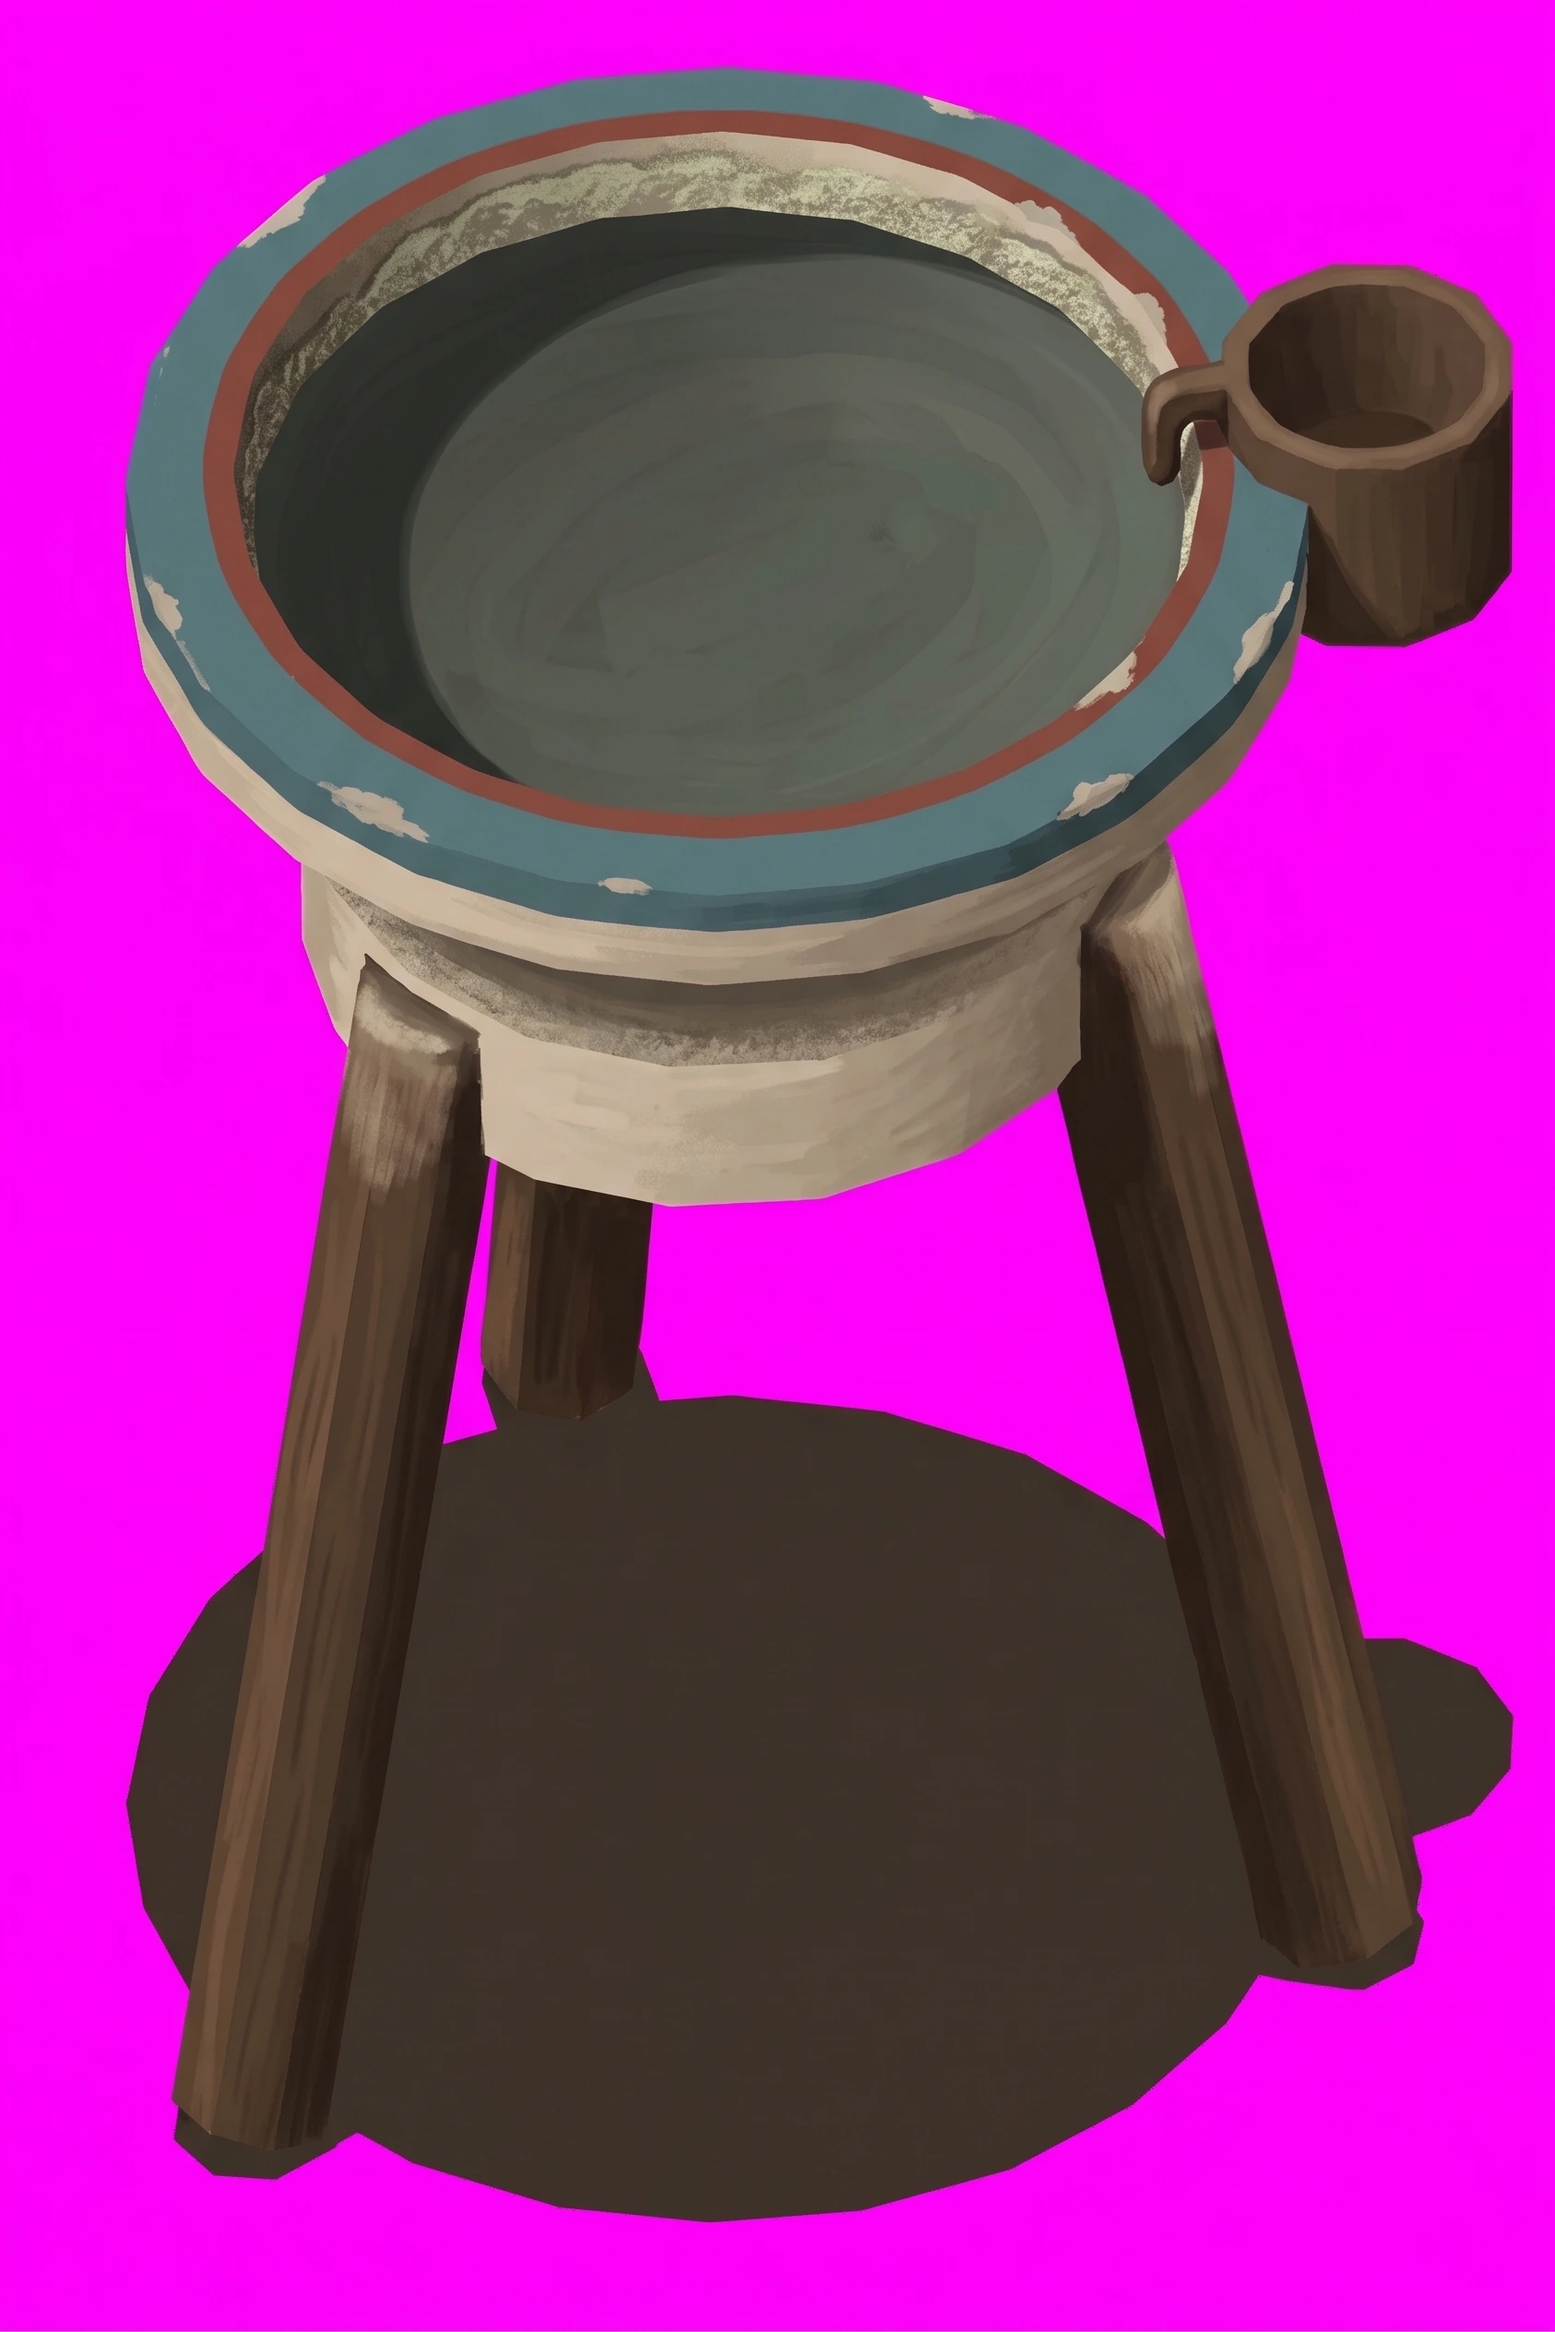
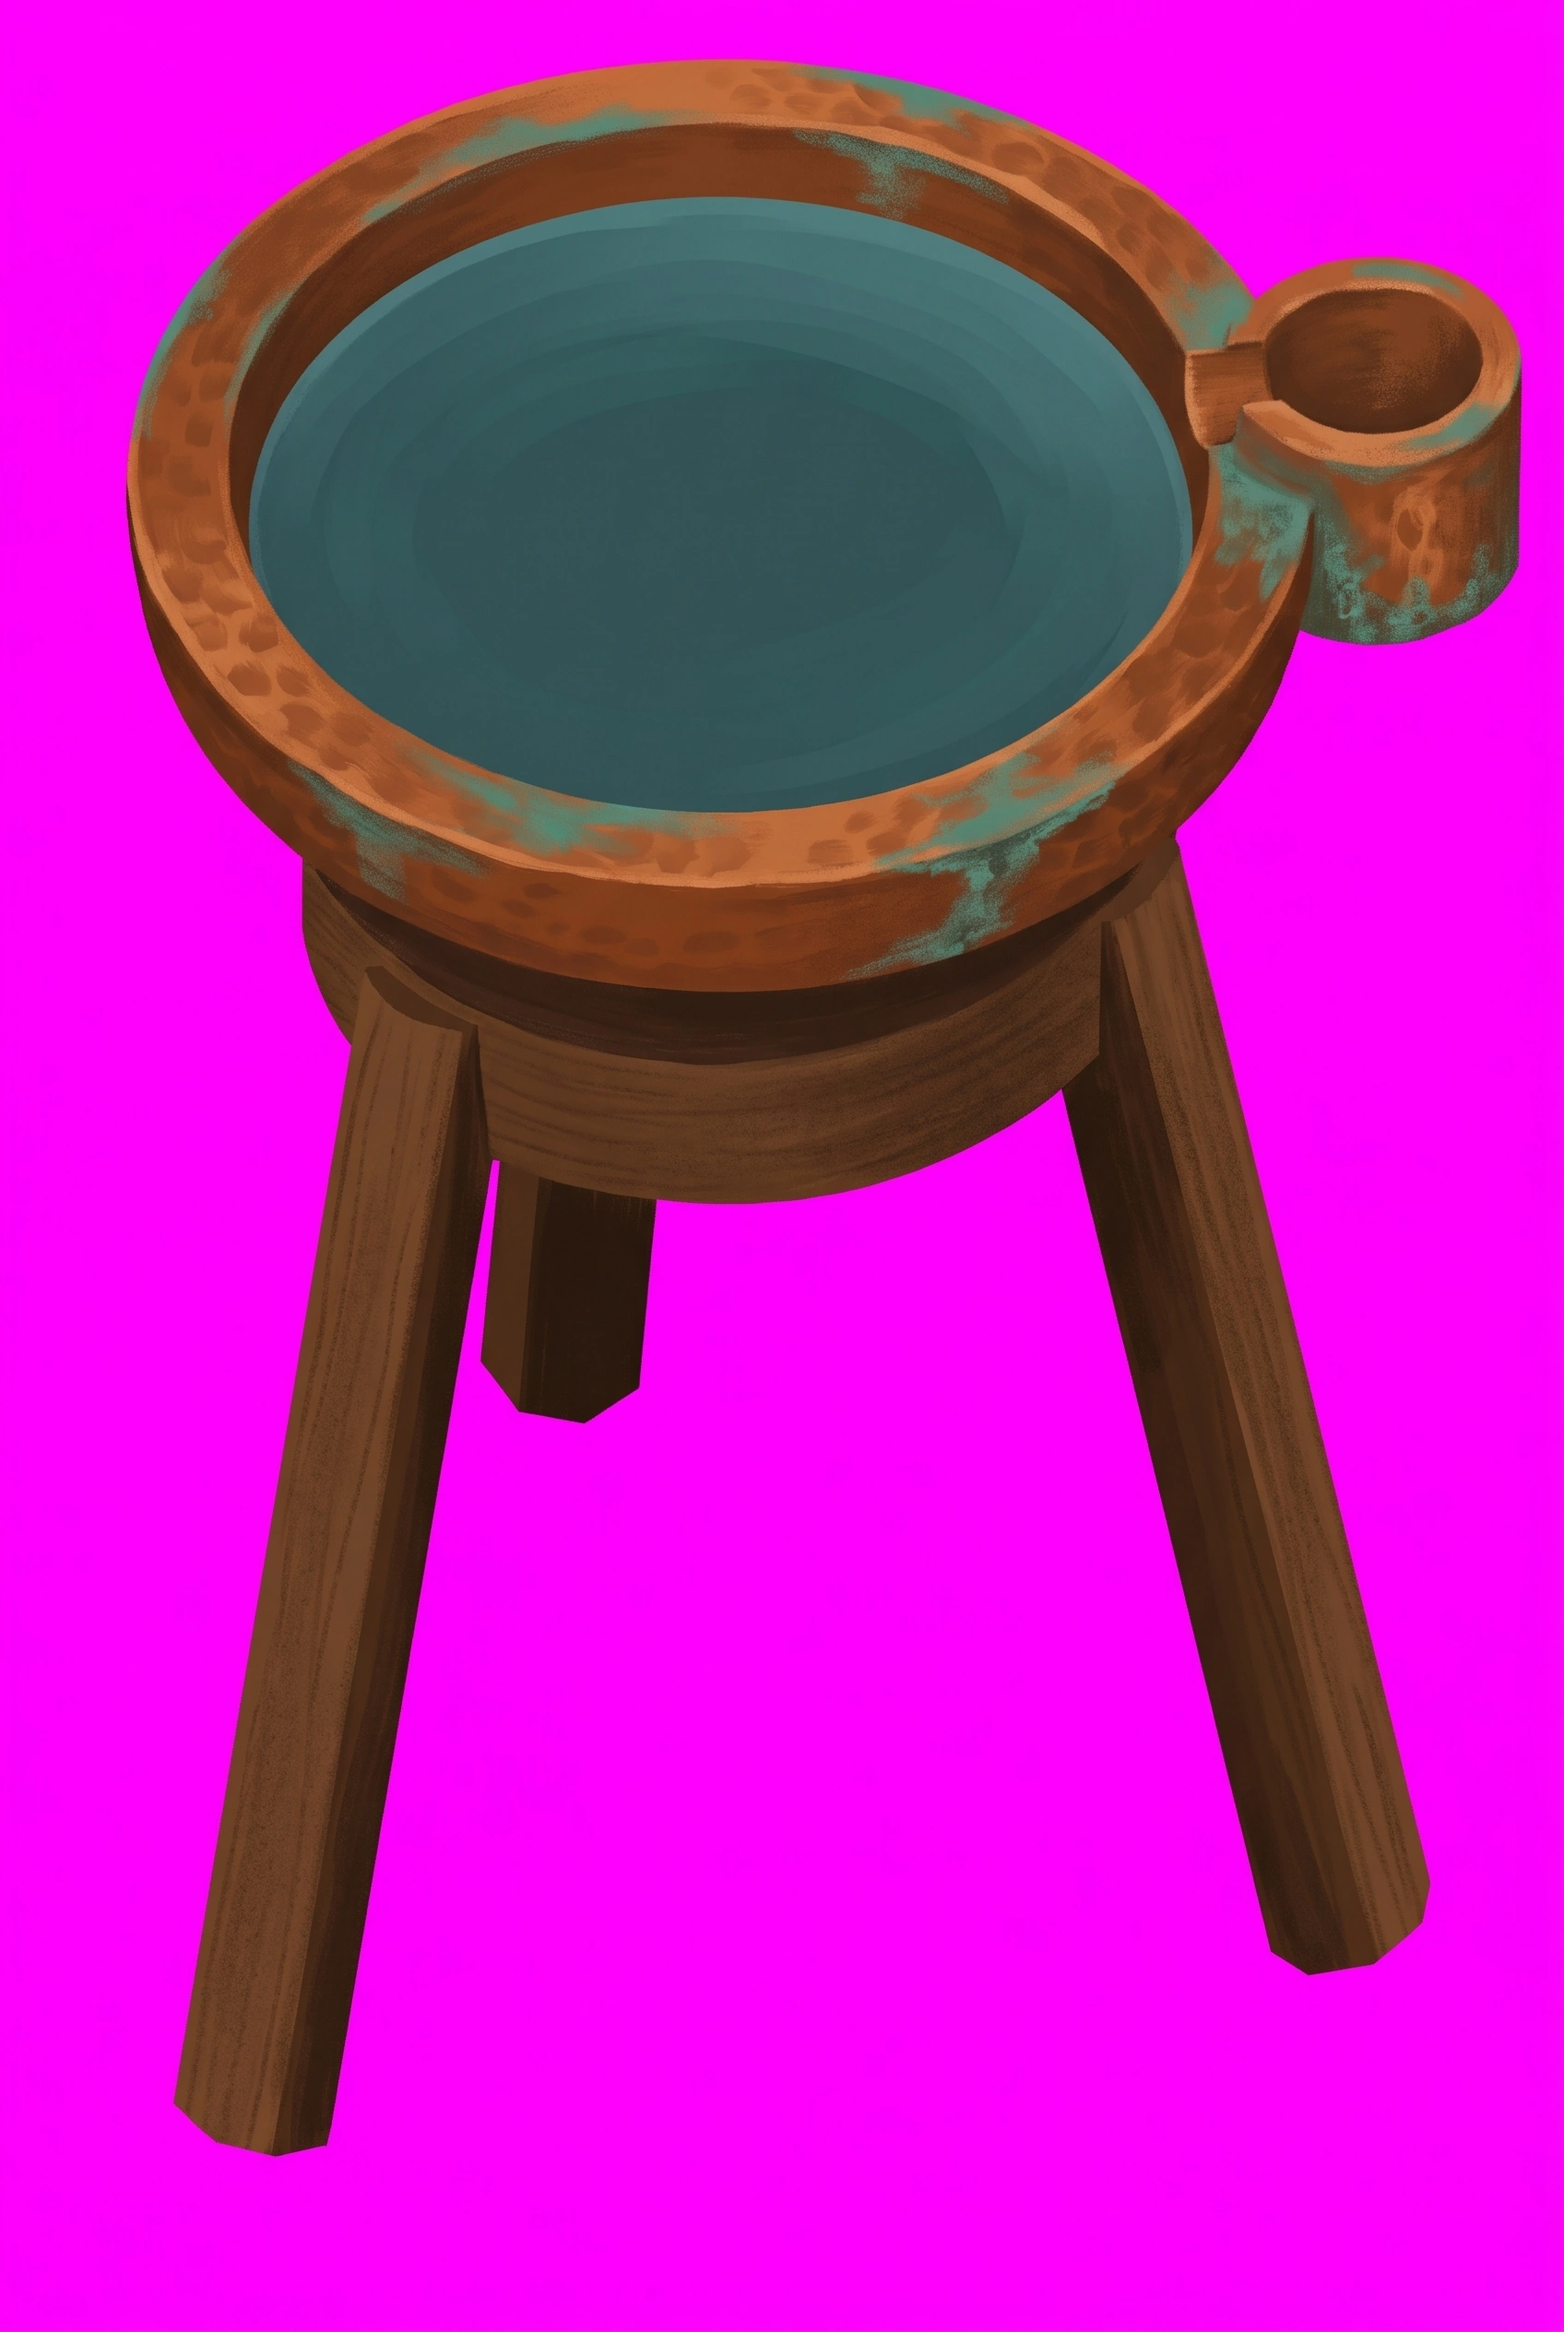
art: junior copper basin
Claude-Session: https://claude.ai/code/session_01F6g2diRzQCzQwEf9zsEEGH

diff --git a/docs/instructions/repaint-queue.md b/docs/instructions/repaint-queue.md
@@ -483,7 +483,7 @@ Even lighting left to right, no hotspot, no vignette.
 
 ---
 
-## Nobleman — thirty-two
+## Nobleman — thirty-one
 
 The nobleman's existing props, repainted for the rank's new light orange floor. Each is its own thing
 first: cedar is cedar, linen is linen, pottery is pottery, painted in red ochre, Egyptian blue and leaf
@@ -506,39 +506,6 @@ The last nine are the house's own kinds, new with its activities ([themed-rooms.
 § Junior): each has a primitive of its own in `renderProp.py` and a guarded block in `art/rebuild.sh`. The
 banquet table and the bed are two cells across, so their frame is landscape three by two; the harp and the
 potted tree stand a cell taller, so theirs is portrait two by five.
-
-### `junior/basin` — a copper ablution bowl on a cedar stand
-
-**Re-roll:** the rank's palette moved (2026-11-03, `Topology/Palette moodboard`). Repainted against the new light orange floor, in its own material's colours; copper only as a trim.
-
-**Attach:**
-
-1. `~/tile-previews/basin-junior.png` — the scaffold
-2. `~/tile-previews/junior-plain.png` — the material reference
-
-```
-A wall-less product shot of a single object, painted in flat matte gouache, no background, on pure magenta #FF00FF. Portrait, two units wide by three tall, exactly as the reference. Do not re-compose it into a square. Paint over the reference image itself.
-
-The object: an ablution BASIN. The three splayed legs and the drum they meet are the STAND; the open bowl
-above it is the BASIN; the disc inside it is WATER.
-
-The stand is dark oiled CEDAR #6b4226, #4a2c1a in shade. The bowl is BEATEN COPPER, the one place this
-rank's metal is the object itself: a deep orange-brown #8a4022, hammer-marked, gone verdigris #4f9a86 at
-the rim and in a streak down the side. The water is a still, dark blue-green surface #2f5a5a, a little
-lighter #3f6f6a at the rim, not a hole.
-
-Keep every edge, every proportion and every silhouette exactly as in the reference image — do not move, resize, straighten, add, remove or restyle any part of it, and do not change the angle it stands at. Paint only material and wear.
-
-No highlights, no gloss, no rim light, no ground plane, no reflections. Matte throughout, evenly lit, crisp and clean. Nobleman's house: orange sandstone, painted plaster, cedar, linen, reed and pottery, each in its OWN colours so it reads at a glance as what it is. Copper is an accent only — a rim, a band, a hasp, gone verdigris green at the edges — never a tint over the whole object.
-```
-
-Then, once the return is in `~/Downloads`:
-
-```sh
-scaffold basin --contents=bowl --spin=14 --colour=#6b4226 --floor=#e2a86f
-yarn import-tile art/masters/props/junior/basin.webp --tier=junior --name=basin --slot=prop \
-  --filter=smooth --mask="$OBJ" --seat="$SHADOW"
-```
 
 ### `junior/hanging` — a dyed linen hanging with a woven border
 
